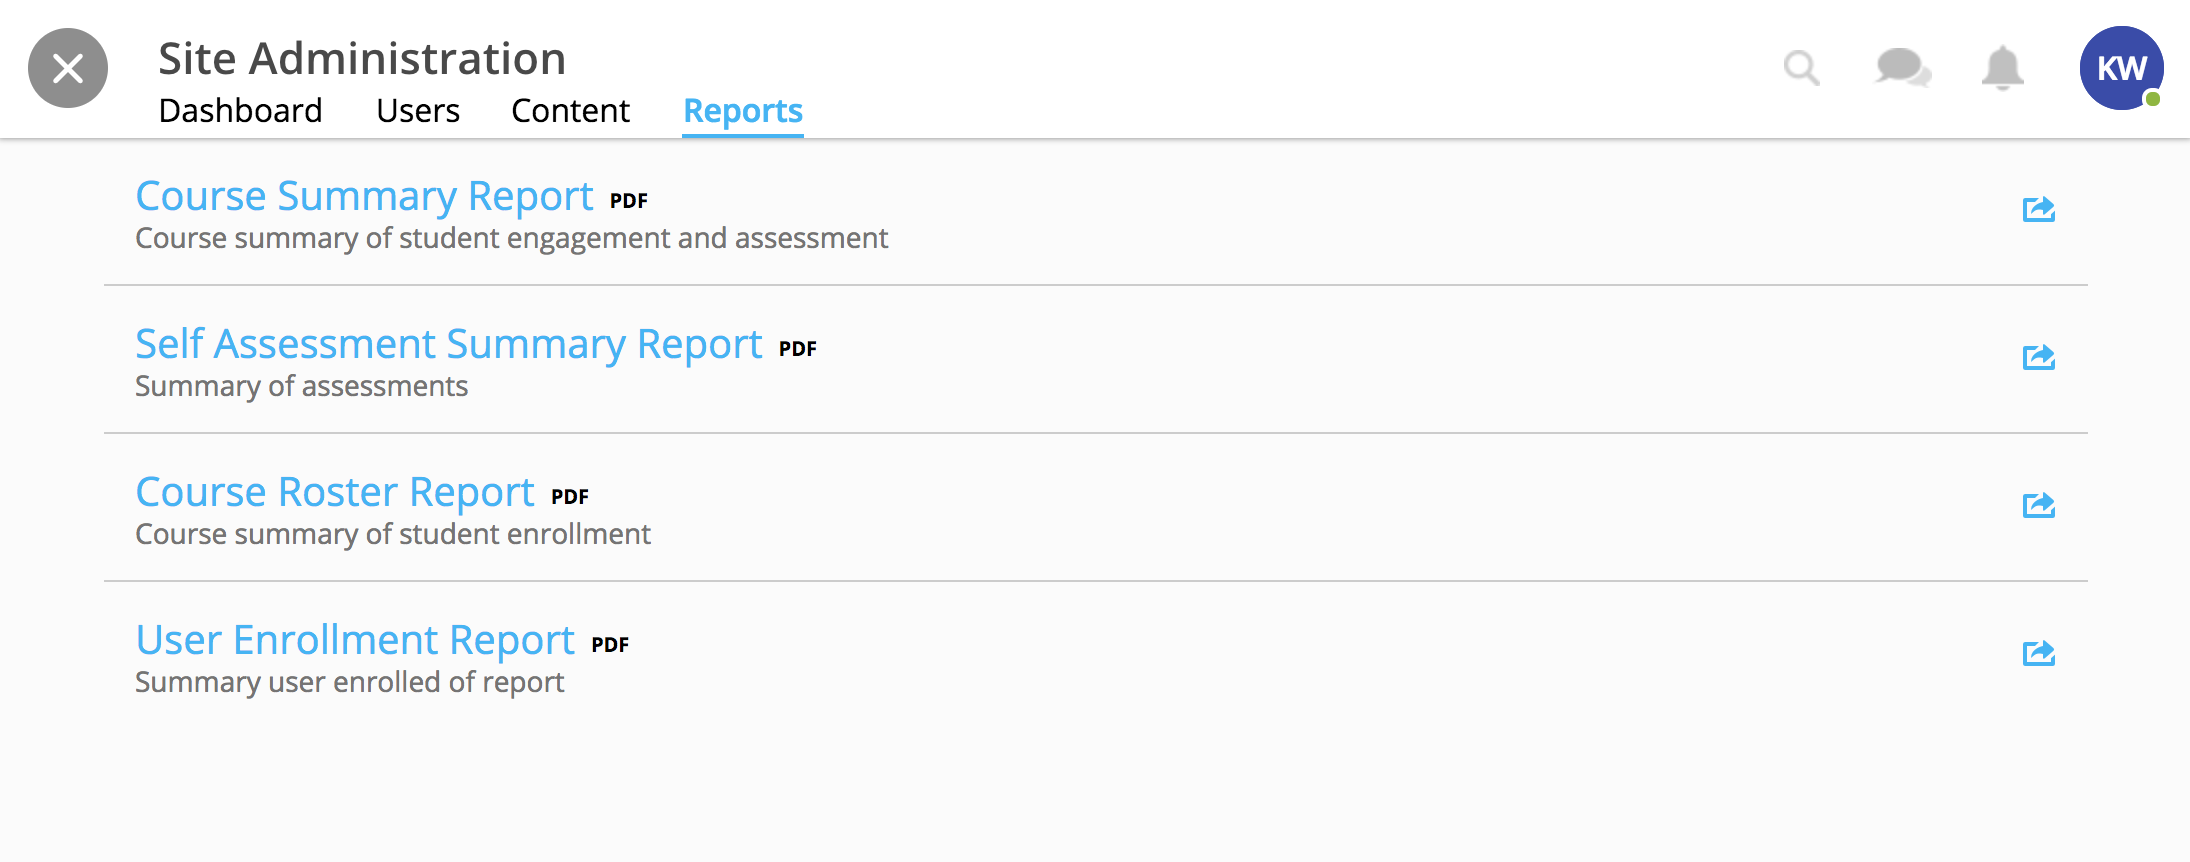
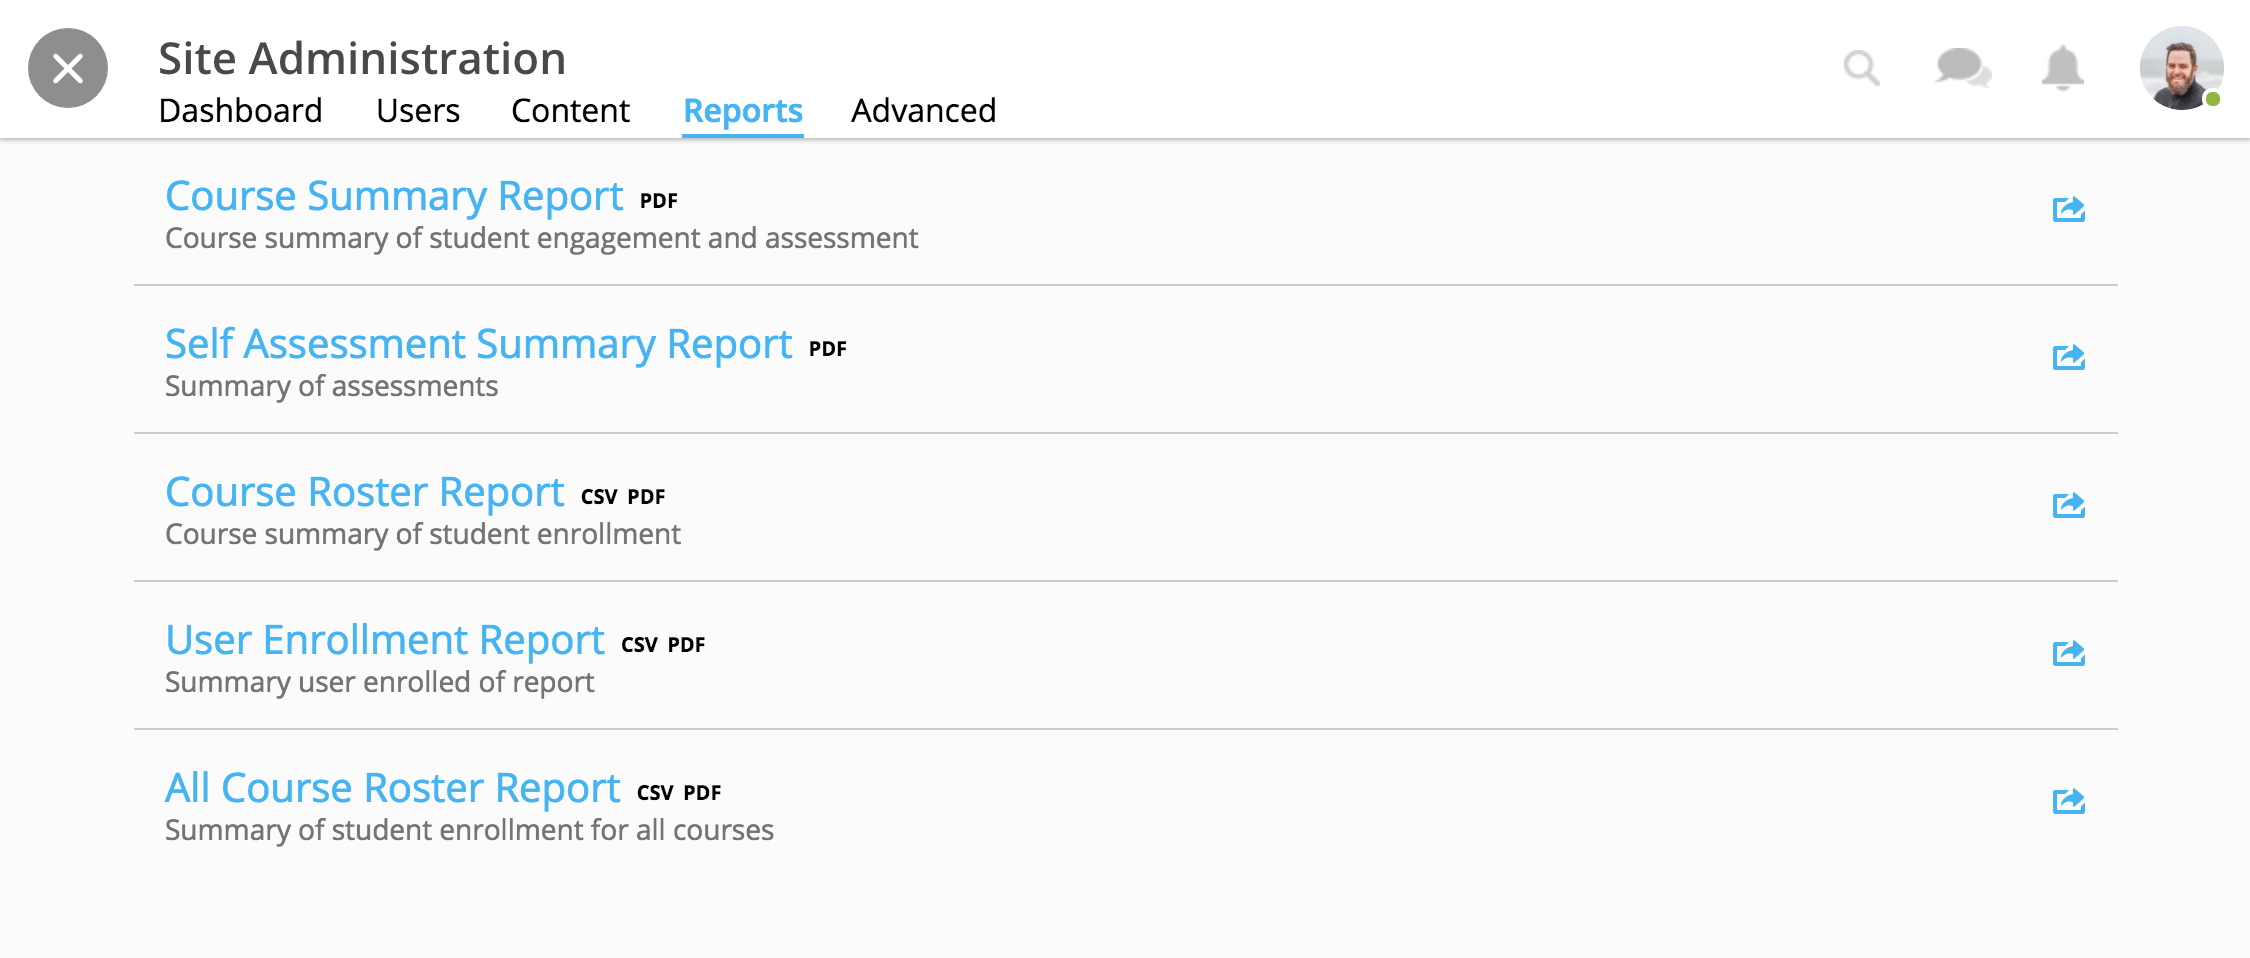
completed view reports doc

diff --git a/adminguide/sitereports.rst b/adminguide/sitereports.rst
@@ -2,7 +2,7 @@
 View Site Reports
 ====================
 
-View course reports within the admin tools. Available reports include the "Course Summary Report," the "Self Assessment Summary Report," the "Course Roster Report," and the "User Enrollment Report."
+View course reports within the admin tools. Available reports include the "Course Summary Report," the "Self Assessment Summary Report," the "Course Roster Report," the "User Enrollment Report," and the "All Course Roster Report."
 
 Download reports for offline viewing or documentation. 
 
@@ -16,19 +16,15 @@ To view reports,
 
 .. image:: images/adminreports.png
 
+.. note:: Reports display the format available for download in black text to the right of the title. Formats available include PDF and CSV. CSVs can be opened as a spreadsheet for customization.
+
 Course Summary Report
 ======================
 
 This report presents data reviewing student enrollment, self-assessment participation, assignment submission, student activity, discussion participation, video and resource usage.
 
-1. Click on Course Summary Report.
-
-.. image:: images/adminreports.png
-
+1. Click on the Course Summary Report.
 2. Select a course to view its report.
-
-.. image:: images/coursesummaryreportcourses.png
-
 3. View report online or use the download button in the upper right-hand corner.
 
 .. image:: images/coursesummaryreport.png
@@ -39,13 +35,41 @@ Self Assessment Summary Report
 
 This report presents data on student participation within self-assessments both by assessment and by student. It also includes information on individual student engagement with each self-assessment.
 
+1. Click on the Self Assessment Summary Report.
+2. Select a course to view its report.
+3. View report online or use the download button in the upper right-hand corner.
+
+.. image:: images/selfassessreport.png
+
 Course Roster Report
 =====================
 
-This report lists all users enrolled in the course and the date and time in which they enrolled.
+This report lists all users enrolled in the course, the date and time in which they enrolled, as well as their progress.
+
+1. Click on the Course Roster Report.
+2. Select a course to view its report.
+3. View report online or use the download button in the upper right-hand corner.
+
+.. image:: images/courserosreport.png
 
 User Enrollment Report
 =======================
 
-This report lists all courses a user is enrolled in and the date the user enrolled.
+This report lists all courses a user is enrolled in, the date the user enrolled, and course progress.
+
+1. Click on the User Enrollment Report.
+2. Select a learner.
+3. View report online or use the download button in the upper right-hand corner.
+
+.. image:: images/userenrollreport.png
+
+All Course Roster Report
+==========================
+
+This report includes enrollment information across the site in each course. Each report lists all users enrolled in the course, the date and time in which they enrolled, as well as progress.
+
+1. Click on the All Course Roster Report.
+2. View report online or use the download button in the upper right-hand corner.
+
+.. image:: images/allcourseros.png
 
